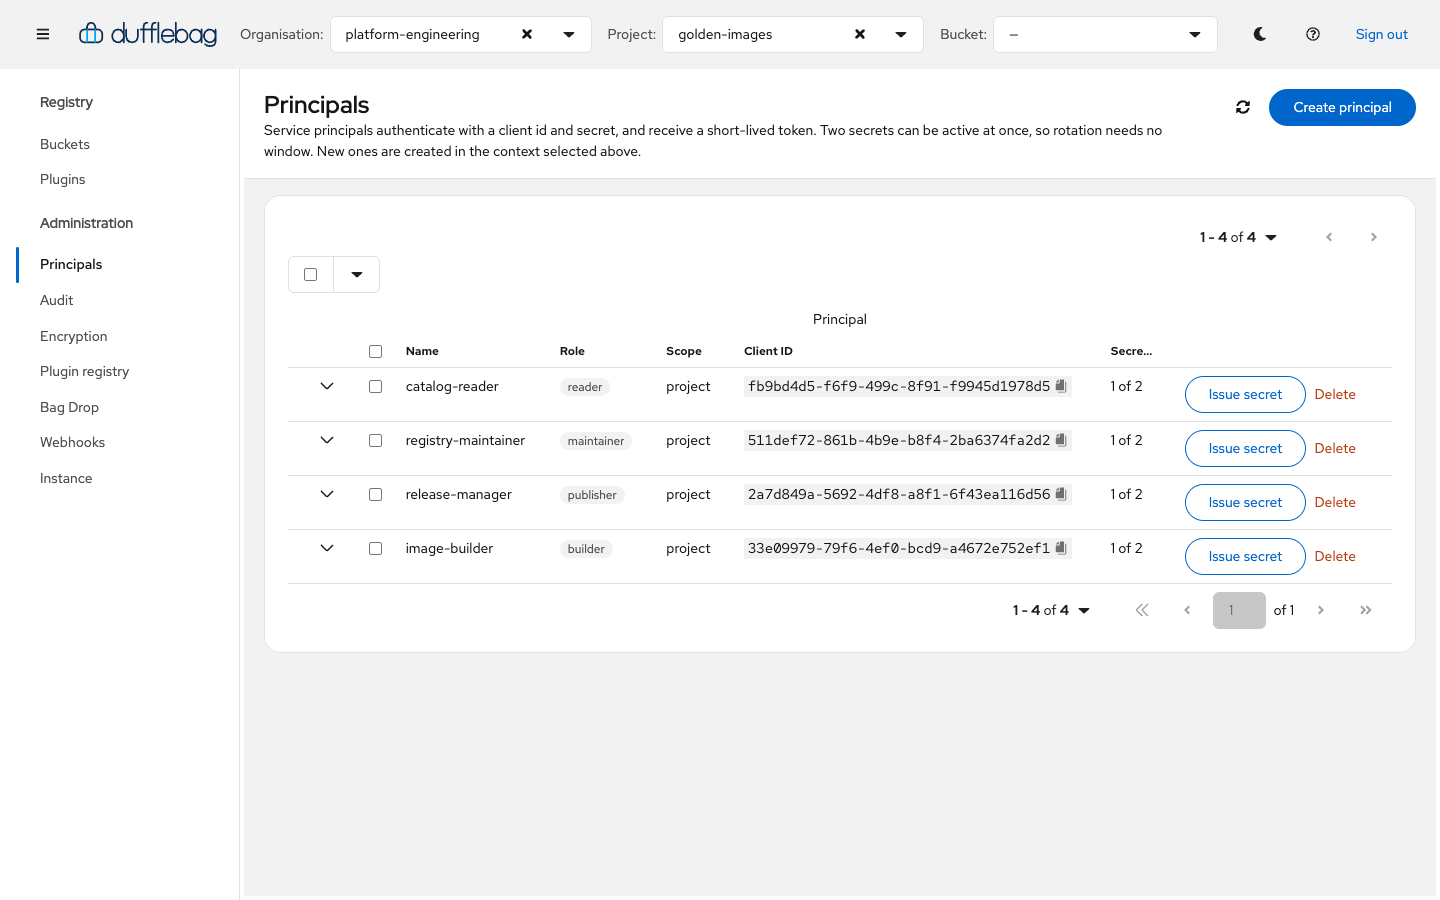
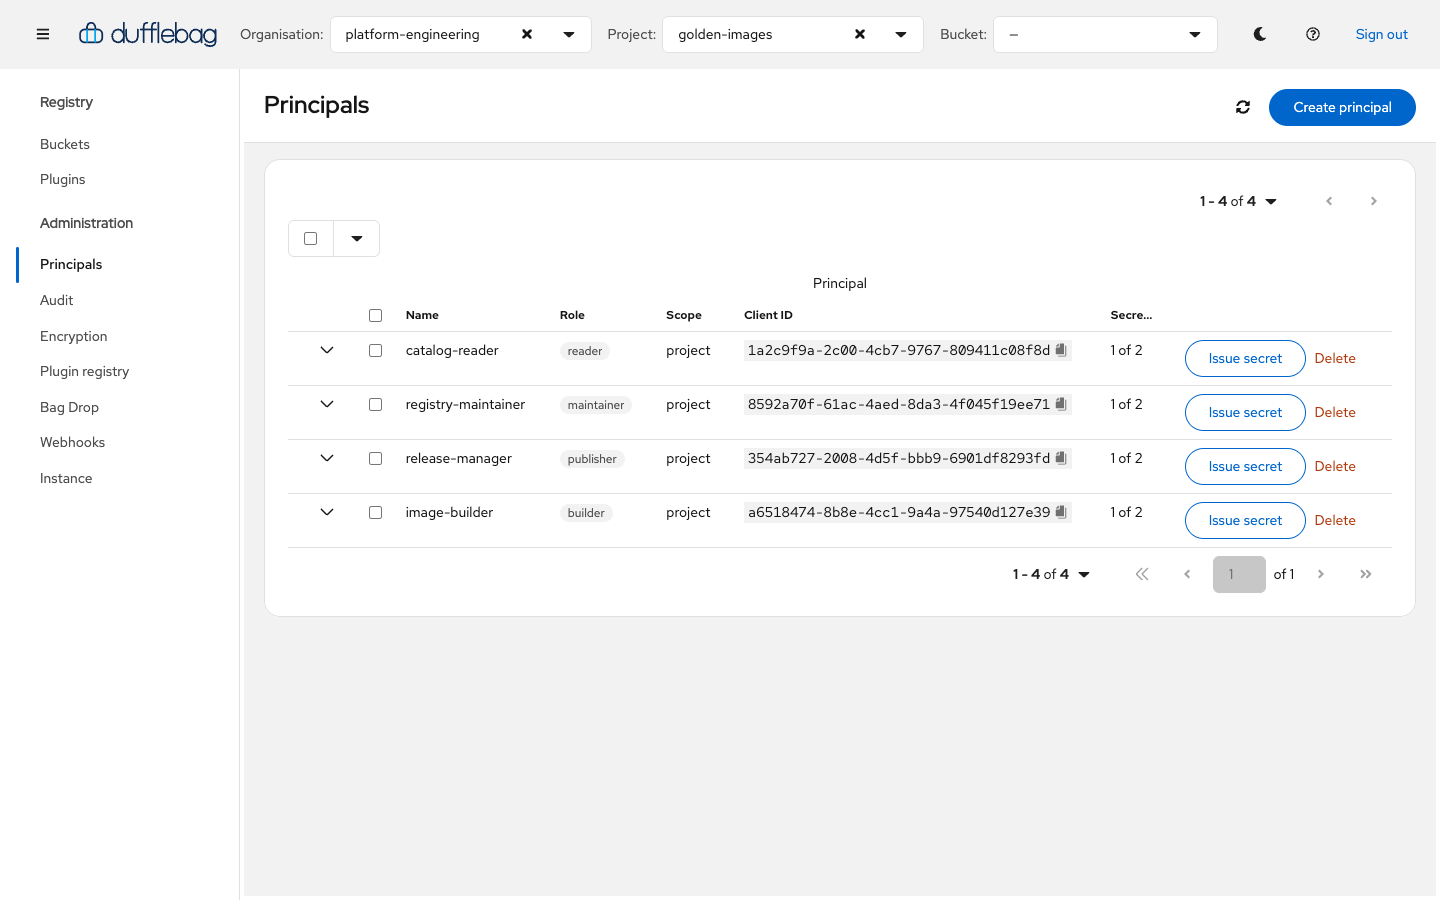
fix(console): screen headers carry live data, never exposition
Audit, Encryption, Principals, Plugin registry, Instance, Bag Drop and
Webhooks each had a sentence of guidance under the title. The guides
hold it: the audit guide now says targets are append-only files that
receive every request and response record, and the principals guide says
how a service principal authenticates and that the masthead pickers set
the scope of the screen. A header subtitle is for live data (counts, who
started a job, a bucket's own description); the bucket page shows nothing
rather than "No description has been recorded." A static test keeps it so.

diff --git a/web/src/screens/Webhooks.tsx b/web/src/screens/Webhooks.tsx
@@ -90,14 +90,8 @@ export function Webhooks() {
 }
 
 const scopeCopy = {
-  organization: {
-    description: 'Send signed organization events, such as a plugin update becoming available, to an HTTP endpoint after its activation handshake succeeds.',
-    empty: 'Create a webhook to send signed organization events.',
-  },
-  project: {
-    description: 'Send signed project events to an HTTP endpoint after its activation handshake succeeds.',
-    empty: 'Create a webhook to send signed project events.',
-  },
+  organization: { empty: 'Create a webhook to send signed organization events.' },
+  project: { empty: 'Create a webhook to send signed project events.' },
 }
 
 export function WebhooksView({
@@ -133,7 +127,6 @@ export function WebhooksView({
         title="Webhooks"
         onRefresh={onRefresh}
         refreshing={loading}
-        description={scopeCopy[scope].description}
         actions={!creating && (loading || failure || webhooks.length > 0) ? (
           <RoleRestrictedButton
             action="configureWebhooks" callerRole={callerRole} variant="primary"

diff --git a/web/src/screens/Principals.tsx b/web/src/screens/Principals.tsx
@@ -90,13 +90,6 @@ export function PrincipalsView({
         title="Principals"
         onRefresh={reload}
         refreshing={loading}
-        description={(
-          <>
-            Service principals authenticate with a client id and secret, and receive a
-            short-lived token. Two secrets can be active at once, so rotation needs no window.
-            New ones are created in the context selected above.
-          </>
-        )}
         actions={!creating && (loading || failure || principals.length > 0) ? (
           <RoleRestrictedButton
             action="managePrincipals" callerRole={callerRole}

diff --git a/web/src/screens/Audit.tsx b/web/src/screens/Audit.tsx
@@ -53,12 +53,6 @@ export function AuditView({ targets, loading, failure, reload, token, callerRole
         title="Audit"
         onRefresh={reload}
         refreshing={loading}
-        description={(
-          <>
-            Audit targets are append-only files that receive every request and response record.
-            Up to three can be active at once. This configuration is visible only to root.
-          </>
-        )}
         actions={!creating && !loading && (failure || targets.length > 0) ? (
           <RoleRestrictedButton
             action="configureAudit"

diff --git a/web/src/screens/PluginRegistrySettings.tsx b/web/src/screens/PluginRegistrySettings.tsx
@@ -137,13 +137,6 @@ export function PluginRegistrySettingsView({
     <>
       <ScreenHeader
         title="Plugin registry"
-        description={(
-          <>
-            Mirrors Packer plugins for {organizationName}, so packer init resolves them from dufflebag
-            instead of the internet. Turn it on, expose it to Packer, and set the platforms a first
-            import selects.
-          </>
-        )}
         onRefresh={onRefresh}
         refreshing={loading}
       />

diff --git a/web/src/screens/Encryption.tsx b/web/src/screens/Encryption.tsx
@@ -46,13 +46,6 @@ export function EncryptionView({
         title="Encryption"
         onRefresh={reload}
         refreshing={loading}
-        description={(
-          <>
-            Encryption at rest protects stored data with a keyring backed by an external key
-            service. This state is visible only to root; other roles can open this page but the
-            server refuses access.
-          </>
-        )}
       />
 
       <PageSection variant="secondary" isFilled>

diff --git a/web/src/screens/BagDrop.tsx b/web/src/screens/BagDrop.tsx
@@ -305,7 +305,6 @@ export function BagDropView(props: BagDropViewProps) {
         title="Bag Drop"
         onRefresh={props.onRefresh}
         refreshing={props.refreshing}
-        description="Mirror selected buckets to another registry while keeping this project authoritative."
       />
       <PageSection variant="secondary" isFilled hasBodyWrapper={false}>
         {/* MUTATION_ROLE_GATE: configuration is maintainer-only. */}

diff --git a/web/src/screens/Versions.tsx b/web/src/screens/Versions.tsx
@@ -296,9 +296,7 @@ export function VersionsView({
             ))}
           </span>
         )}
-        description={bucketData
-          ? bucketData.description || 'No description has been recorded.'
-          : null}
+        description={bucketData?.description || null}
         actions={!loading && !failure && !gap ? (
           <>
             <RoleRestrictedButton

diff --git a/web/src/screens/Instance.tsx b/web/src/screens/Instance.tsx
@@ -118,7 +118,6 @@ export function InstanceView({
     <>
       <ScreenHeader
         title="Instance"
-        description="What a client needs to point at this registry."
         onRefresh={onRefresh}
         refreshing={loading}
       />

diff --git a/docs-site/administration/principals.md b/docs-site/administration/principals.md
@@ -82,7 +82,10 @@ insufficient role gets a 403.
 
 The **Principals** screen is available to maintainers. It creates
 principals, issues secrets with an expiry choice, revokes secrets, and
-deletes principals. One-time secrets are shown exactly once. The same
+deletes principals. One-time secrets are shown exactly once. A service
+principal authenticates with its client id and secret and receives a
+short-lived token. The organization and project pickers in the masthead
+set the scope of what the screen lists and of any principal it creates. The same
 operations are in the [platform API reference](/platform-api.html) under
 `principals`.
 

diff --git a/docs-site/administration/audit.md b/docs-site/administration/audit.md
@@ -22,7 +22,8 @@ that produced it.
 
 ### File targets
 
-Audit entries go to **file targets**. A `root` can create and remove up to three
+Audit entries go to **file targets**: append-only files that receive every
+request and response record. A `root` can create and remove up to three
 paths. Each target reports a `healthy` or `failing` status, consecutive and
 cumulative failure counts, the last failure time, and the last successful
 reopen.
